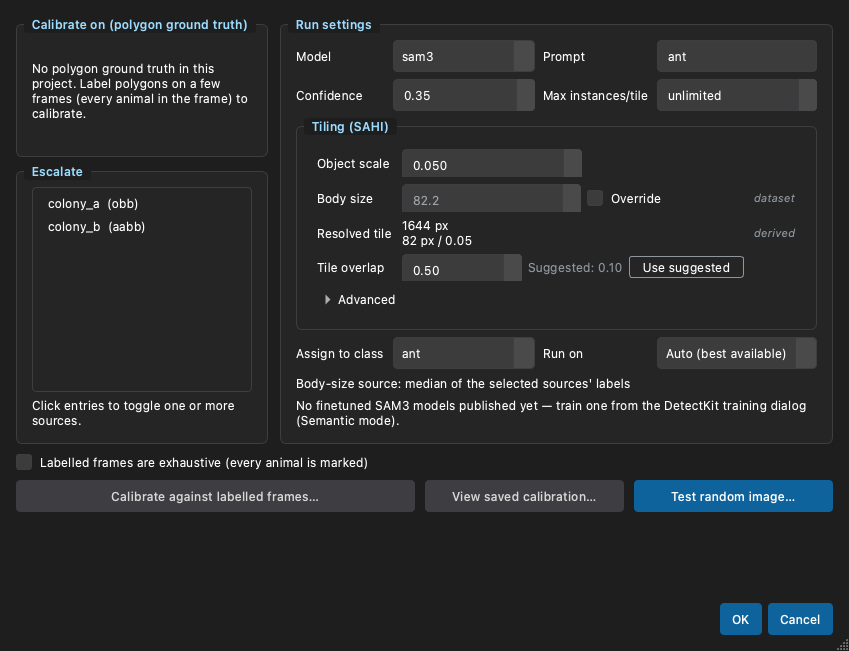
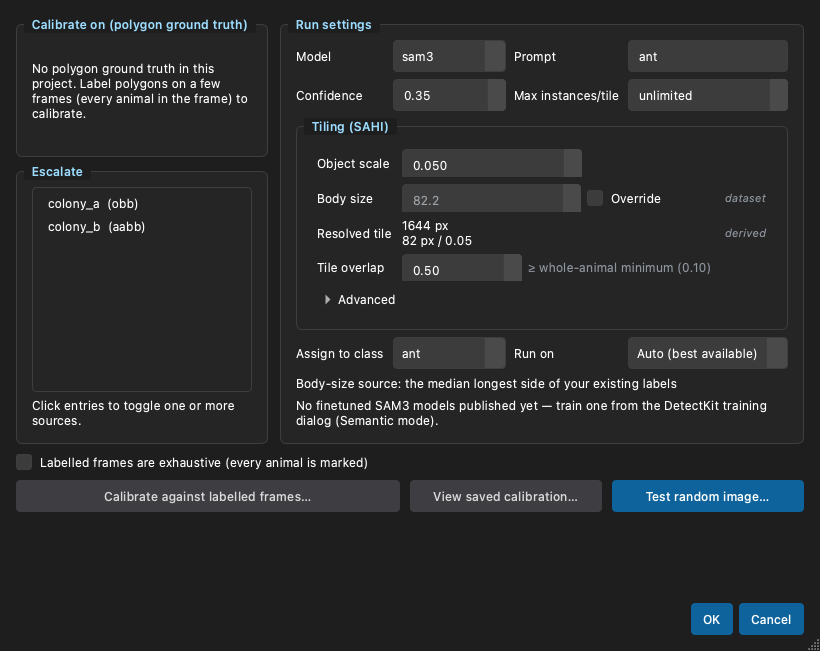
docs(sahi): render the SAM3 panel inside the dark TrainingDialog; regenerate gallery
host_sam3_training.png is now the SAM3 tab's scroll page of the real
TrainingDialog, so disabled-state contrast is exercised under the app's own
stylesheet (it was the bare panel on the default light style). The
escalation shots pass their real body sources. All 15 PNGs regenerated
after the fix wave (whole-animal overlap minimum, truthful badges,
threshold-only merge in the inference dialog).

diff --git a/tools/sahi_widget_gallery.py b/tools/sahi_widget_gallery.py
@@ -217,7 +217,6 @@ def render_hosts(out: Path, app, root: Path) -> list[Path]:
     )
     from hydra_suite.detectkit.gui.dialogs.training_dialog import TrainingDialog
     from hydra_suite.detectkit.gui.models import InferenceRunSettings
-    from hydra_suite.detectkit.gui.panels.sam3_training_panel import Sam3TrainingPanel
 
     project = _project(root)
     written = []
@@ -231,15 +230,18 @@ def render_hosts(out: Path, app, root: Path) -> list[Path]:
         )
     )
 
-    panel = Sam3TrainingPanel()
-    # Render the enabled state: on a machine without CUDA the whole panel is
-    # disabled by the availability probe, which is not what is under review.
-    # _probed_once also skips the show-time `conda run` probe thread.
-    panel._probed_once = True
+    # The SAM3 panel inside the real (dark-themed) TrainingDialog, so the
+    # disabled-state contrast is exercised under the app's own stylesheet.
+    # Rendered enabled: on a machine without CUDA the availability probe
+    # disables the whole panel, which is not what is under review.
+    panel = training.sam3_panel
     panel._apply_availability(SimpleNamespace(usable=True, reason=""), "hydra-sam3")
     panel.slice_group.set_preview_frame_options([(2048, 1536, 12)])
-    panel.adjustSize()
-    written.append(_grab(panel, out / "host_sam3_training.png", app))
+    written.append(
+        _grab_scroll_page(
+            training, panel.slice_group, out / "host_sam3_training.png", app
+        )
+    )
 
     settings = InferenceRunSettings.from_project(project, confidence_threshold=0.25)
     inference = InferenceSettingsDialog(settings, settings, model_input_size=1024)
@@ -256,13 +258,19 @@ def render_hosts(out: Path, app, root: Path) -> list[Path]:
             project.sources,
             82.2,
             project=project,
-            body_px_origin="median of the selected sources' labels",
+            body_px_origin="the median longest side of your existing labels",
+            body_px_source="dataset",
         )
         written.append(_grab(escalation, out / "host_sam3_escalation.png", app))
     finally:
         sam3.probe_checkpoint = original_probe
 
-    sam2 = EscalateSam2Dialog(project.sources, project=project, reference_body_px=40.0)
+    sam2 = EscalateSam2Dialog(
+        project.sources,
+        project=project,
+        reference_body_px=40.0,
+        body_px_source="dataset",
+    )
     sam2._tile_fraction.setValue(0.1)
     written.append(_grab(sam2, out / "host_sam2_escalation.png", app))
     return written
